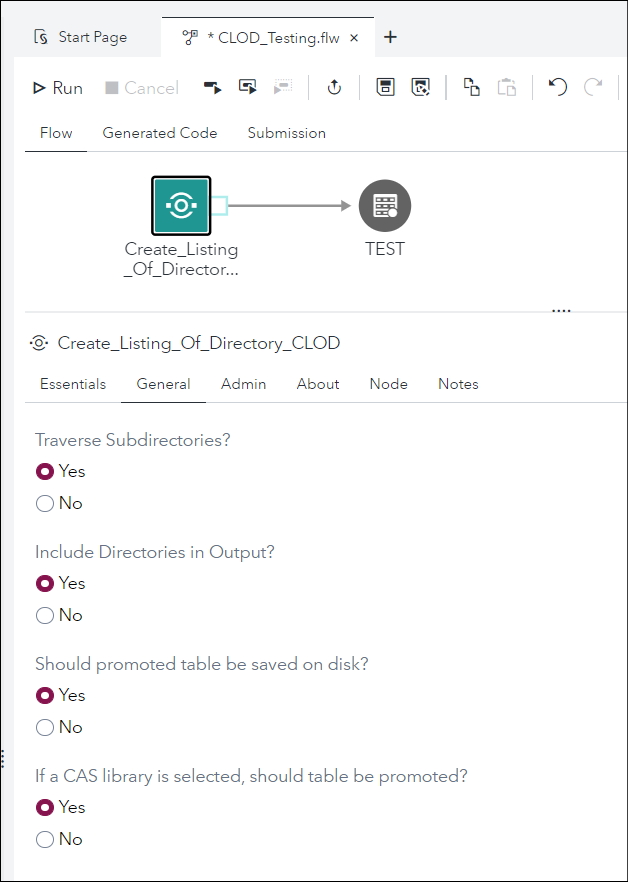
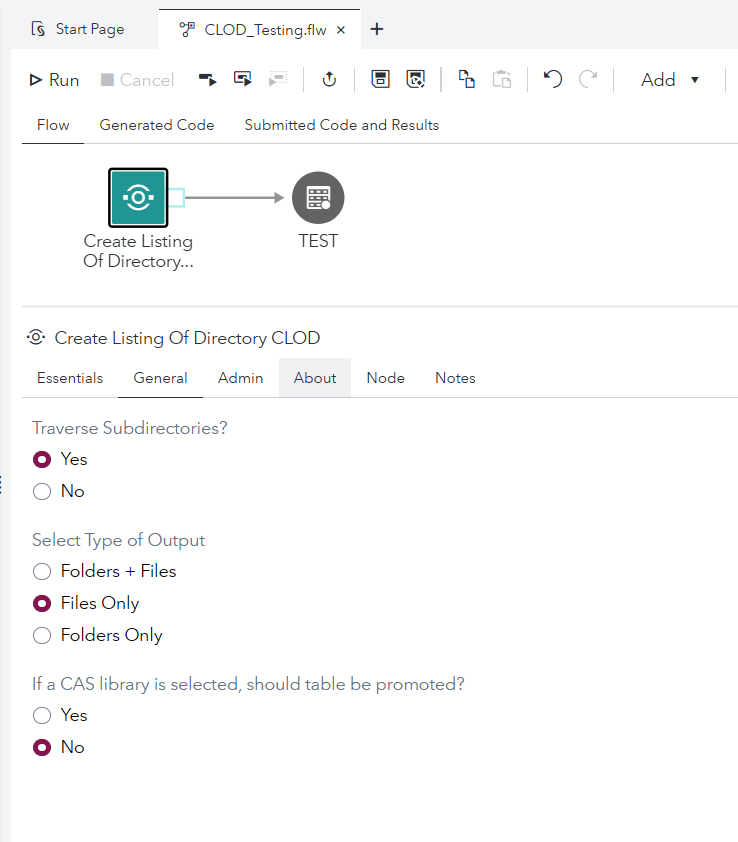
fix proper display of folders in output when traversing is off and add more output selections

diff --git a/Create Listing of Directory CLOD/README.md b/Create Listing of Directory CLOD/README.md
@@ -1,82 +1,83 @@
 # Create Listing Of Directory CLOD
 
-* [Description](#description)
-* [SAS Viya Version Support](#sas-viya-version-support)
-* [User Interface](#user-interface)
-* [Requirements](#requirements)
-* [Usage](#usage)
+- [Description](#description)
+- [SAS Viya Version Support](#sas-viya-version-support)
+- [User Interface](#user-interface)
+- [Requirements](#requirements)
+- [Usage](#usage)
 
 ## Description
 
-The "**Create Listing Of Directory CLOD**" Custom Step provides a full listing of what is all in a directory. 
-Just chooose the parent/root directory and CLOD will create a dataset that then can be used for further processing. 
+The "**Create Listing Of Directory CLOD**" Custom Step provides a full listing of what is all in a directory.
+Just chooose the parent/root directory and CLOD will create a dataset that then can be used for further processing.
 
 ### **Output Table Structure**
 
 The structure of the output table is as follows:
 
-* DIRECTORY_PATH: path of the object found
-* FILE_NAME: object name (is either a file or a directory)
-* FULL_FILE_NAME: concatenation of DIRECTORY_PATH and FILE_NAME
-* OBJECT_TYPE: when the option "INCLUDES_DIRECTORY_IN_OUTPUT" is set to YES, then this field is included and is either set to "folder" or "file", depending on object type.
-* IS_IN_SAS_CONTENT_FLAG: is either 0 (if object is found in SAS Server) or 1 (if object is found in SAS Content)
+- DIRECTORY_PATH: path of the object found
+- FILE_NAME: object name (is either a file or a directory)
+- FULL_FILE_NAME: concatenation of DIRECTORY_PATH and FILE_NAME
+- OBJECT_TYPE: when the option "INCLUDES_DIRECTORY_IN_OUTPUT" is set to YES, then this field is included and is either set to "folder" or "file", depending on object type.
+- IS_IN_SAS_CONTENT_FLAG: is either 0 (if object is found in SAS Server) or 1 (if object is found in SAS Content)
 
 ### **Parameter Overview**
 
-#### ***Provide Root Directory (can be from within SAS Server or SAS Content) - ROOT_DIRECTORY_UI***
+#### **_Provide Root Directory (can be from within SAS Server or SAS Content) - ROOT_DIRECTORY_UI_**
 
-Provide the top level directory that CLOD should use to start looking for files and subfolders. CLOD will then traverse through the whole directory structure and find all the files and folders below this top level directory. 
+Provide the top level directory that CLOD should use to start looking for files and subfolders. CLOD will then traverse through the whole directory structure and find all the files and folders below this top level directory.
 
 If the root directory is in the SAS Server area, this has to start out with: sasserver: (e.g. example value for root_directory: sasserver:/mnt/desired/path/for/files_to_be_readin/from/SASServer/).
 
 If the root directory is in the SAS Content area, this has to start out with: sascontent: (e.g. example value for root_directory: sascontent:/Public/desired_path_for/files/in/SASContent/).
 
-#### ***Extension - EXTENSION_UI***
+#### **_Extension - EXTENSION_UI_**
 
-Default value: *
+Default value: \*
 
-if * is provided, all files are captured in the output. 
-Otherwise, any text string can provided, which will be used as a filter for the ending of the files. So only files will be captured that fall into this filter. 
+if \* is provided, all files are captured in the output.
+Otherwise, any text string can provided, which will be used as a filter for the ending of the files. So only files will be captured that fall into this filter.
 
-#### ***Target Libname (CAS or 94, needs to exist) - TARGET_LIBNAME_UI***
+#### **_Target Libname (CAS or 94, needs to exist) - TARGET_LIBNAME_UI_**
 
-This can be any existing library accessible to SAS Studio. 
-If it is a CASLIB, the table will NOT be promoted or saved to disk. 
-If that is desired, this would need to happen outside the custom step. 
+This can be any existing library accessible to SAS Studio.
+If it is a CASLIB, the table will NOT be promoted or saved to disk.
+If that is desired, this would need to happen outside the custom step.
 
-#### ***Name of Output Dataset? - OUTPUT_DATASET_NAME_UI***
+#### **_Name of Output Dataset? - OUTPUT_DATASET_NAME_UI_**
 
-Provide the output table name. 
+Provide the output table name.
 
-#### ***Traverse Subdirectories? - CLOD_TRAVERSE_DIRECTORIES_UI***
+#### **_Traverse Subdirectories? - CLOD_TRAVERSE_DIRECTORIES_UI_**
 
 Suggested default value: Yes (1)
 
 If Yes is selected, CLOD will traverse all directories that can be found under directory provided in "Root Directory" parameter.
-If No is selected, CLOD will only look for files in selected directory. 
+If No is selected, CLOD will only look for files in selected directory.
 
-#### ***Include Directories in Output? - INCLUDE_DIRECTORIES_UI***
+#### **_Select Type of Output - OUTPUT_SELECTION_UI_**
+
+Suggested default value: "Files Only" (0)
+
+If "Files Only" is selected, the output dataset only contains files that could be found.
+If "Folders + Files" (1) is selected, the output dataset contains the folder names and the file names.
+If "Folders Only" (2) is selected, the output dataset only contains the names of the folders that could be found.
+
+#### **_If a CAS library is selected, should table be promoted? - CAS_PROMOTE_UI_**
 
 Suggested default value: No (0)
-
-If No is selected, the output dataset doesn't contain the actual directory names, but only the files that could be found. 
-If Yes is selected, the actual directory names are also captured, and an additional column is added to the output table (OBJECT_TYPE), which is either set to "file" or "folder".
-
-#### ***If a CAS library is selected, should table be promoted? - CAS_PROMOTE_UI***
-
-Suggested default value: No (0)
-This selection is only applied if selected target library is a CAS library. 
+This selection is only applied if selected target library is a CAS library.
 If No is selected, the table is not promoted and stays only active for the local session.
-If Yes is selected, CLOD will promote the table. 
+If Yes is selected, CLOD will promote the table.
 
-#### ***Should promoted table be saved on disk? - CAS_SAVE_ON_DISK_UI***
+#### **_Should promoted table be saved on disk? - CAS_SAVE_ON_DISK_UI_**
 
 Suggested default value: No (0)
-This selection is only applied if selected target library is a CAS library and output table is promoted. 
+This selection is only applied if selected target library is a CAS library and output table is promoted.
 If No is selected, the table is not saved on disk.
-If Yes is selected, CLOD will save table on disk and make it persistent. 
+If Yes is selected, CLOD will save table on disk and make it persistent.
 
-#### ***Debug Mode? - DEBUG_MODE_UI***
+#### **_Debug Mode? - DEBUG_MODE_UI_**
 
 Suggested default value: No (0)
 
@@ -84,11 +85,11 @@ If set to 1, CLOD writes out more information out to the log, that might be help
 
 If set to 0, CLOD just writes out the default SAS log output, depending on the settings of the options mprint, source and notes.
 
-#### ***Path for logfile creation - LOG_FILE_PATH_UI***
+#### **_Path for logfile creation - LOG_FILE_PATH_UI_**
 
 suggested default value: empty/missing.
 
-This parameter is only relevant when the parameter "WRITE_LOG_INTO_FILE_UI" is set to 1. 
+This parameter is only relevant when the parameter "WRITE_LOG_INTO_FILE_UI" is set to 1.
 
 Provide a default path for all runs: as soon as a path is provided, this path is being used for ALL runs.
 
@@ -96,7 +97,7 @@ If the log directory is in the SAS Server area, this has to start out with: sass
 
 If the log directory is in the SAS Content area, this has to start out with: sascontent: (e.g. example value for provide_default_log_path: sascontent:/Public/desired_path_for/logfiles/in/SASContent/).
 
-#### ***Write Log into File? - WRITE_LOG_INTO_FILE_UI***
+#### **_Write Log into File? - WRITE_LOG_INTO_FILE_UI_**
 
 Suggested default value: No (0)
 
@@ -104,12 +105,12 @@ If set to 0, log is written into default SAS log location.
 
 If set to 1, log is written to location as provided under the parameter "LOG_FILE_PATH_UI".
 
-#### ***Provide options to be applied for this run (only single options allowed like mprint, nosource, etc). - OPTIONS_SEQ_UI***
+#### **_Provide options to be applied for this run (only single options allowed like mprint, nosource, etc). - OPTIONS_SEQ_UI_**
 
-If provided those options will be applied to the execution of the code. 
-
+If provided those options will be applied to the execution of the code.
 
 ## SAS Viya Version Support
+
 Tested with 2020.1.5
 
 ## User Interface
@@ -132,16 +133,15 @@ If you are happy with all the default settings, only adjust the parameters in th
 
 ![](img/clod_about_tab.PNG)
 
-
 ## Requirements
-
 
 ## Usage
 
 ### **How to Run CLOD**
-![](img/clod_run_with_defaults.gif)
 
+![](img/clod_run_with_defaults.gif)
 
 ## Change Log
 
+Version 3.1.1 (05SEP2024): - fixing an issue when folders are not shown when traversing is set to no and displaying directories is set to yes. - adding functionality to select between the 3 following output styles: Files Only/Folders Only/Folders + Files
 Version 3.1 (14SEP2022)
